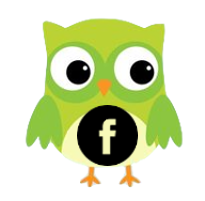
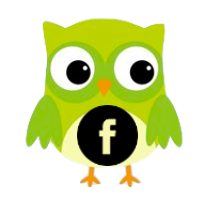
optimisation img

Changed region(s): [[0.1171, 0.0896, 0.9073, 0.7463], [0.5854, 0.8358, 0.6732, 0.9254], [0.4098, 0.8358, 0.4976, 0.9254]]

diff --git a/src/ChouettesBundle/Resources/public/sass/_footer.scss b/src/ChouettesBundle/Resources/public/sass/_footer.scss
@@ -154,7 +154,7 @@ a.back-to-top {
     z-index: 999;
     right: 20px;
     bottom: 20px;
-    background: url("../images/noun2.png") no-repeat center 43%;
+    background: url("../images/noun2.jpg") no-repeat center 43%;
     -webkit-border-radius: 30px;
     -moz-border-radius: 30px;
     border-radius: 30px;
